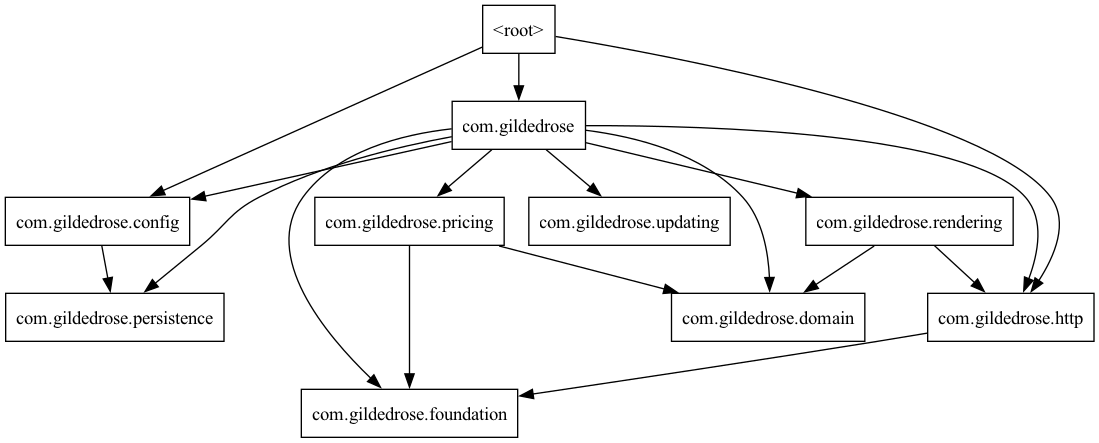
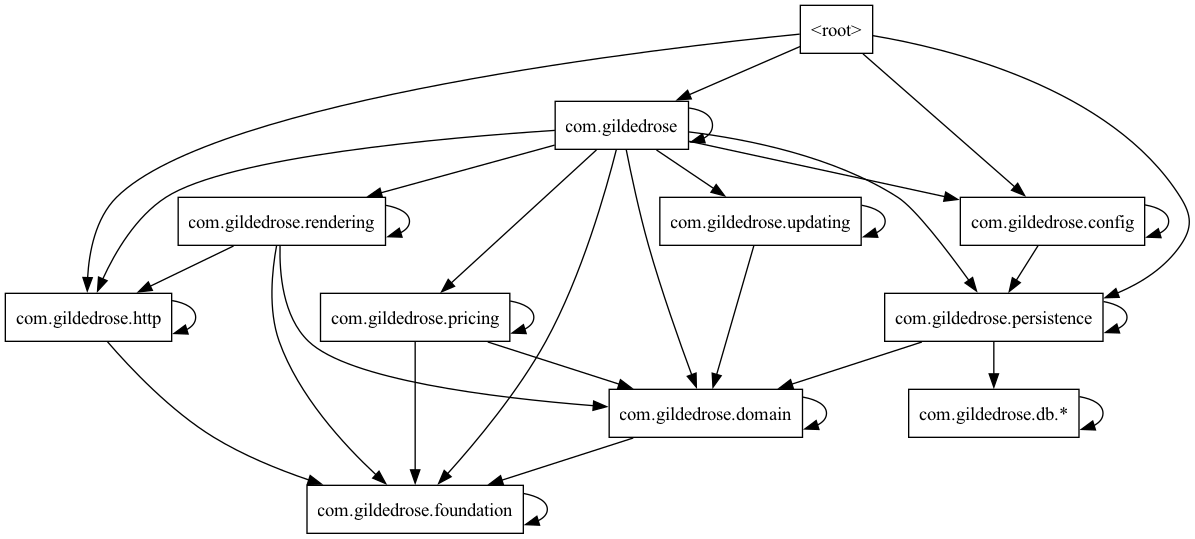
New package-analyzer.kt which uses classpath scanning rather than source parsing

diff --git a/app/src/test/java/package-analyzer.kt b/app/src/test/java/package-analyzer.kt
@@ -1,86 +1,77 @@
 import io.github.classgraph.ClassGraph
+import io.github.classgraph.ClassInfo
 import org.junit.jupiter.api.Disabled
 import org.junit.jupiter.api.Test
 import java.io.File
-import java.util.regex.Pattern
 import kotlin.test.assertEquals
 
 
 @Disabled("Run by hand only")
 class PackageAnalyzer {
     private val includeExternalDependencies = false
+    private val outputDot = File.createTempFile("output", ".dot")
 
     @Test
     fun main() {
-        val outputDot = File.createTempFile("output", ".dot")
-        val outputPng = File("packages.png")
-        val srcDirPath = File("./src/main")
-        val fileTree = walkTree(srcDirPath, includeExternalDependencies = includeExternalDependencies)
-
-        generateDotFile(outputDot, fileTree)
-        createImageOutput(outputDot, outputPng)
+        val scanResult = ClassGraph().enableInterClassDependencies().scan()
+        val dependencies: Map<ClassInfo, List<ClassInfo>> = scanResult.classDependencyMap
+        val root = scanResult.getClassInfo("MainKt")
+        val packageDependencies = walkClassTree(root, dependencies, includeExternalDependencies)
+        generateDotFile(outputDot, packageDependencies)
+        createImageOutput(outputDot, File("packages.png"))
         checkDotFile(outputDot)
     }
 }
 
-private fun walkTree(srcDirPath: File, includeExternalDependencies: Boolean): Map<String, Set<String>> =
-    srcDirPath.walkTopDown()
-        .filter { it.isFile && it.path.endsWith(".kt") }
-        .map { file -> file.extractPackageAndImports(includeExternalDependencies) }
-        .groupingBy { it.first }
-        .fold(emptySet()) { acc, (_, importedPackages) -> acc union importedPackages }
+private fun walkClassTree(
+    root: ClassInfo,
+    dependencies: Map<ClassInfo, List<ClassInfo>>,
+    includeExternalDependencies: Boolean,
+    destination: MutableMap<String, MutableSet<String>> = mutableMapOf(),
+    visited: MutableSet<ClassInfo> = mutableSetOf(),
+): MutableMap<String, MutableSet<String>> {
+    if (visited.contains(root))
+        return destination
+    else
+        visited.add(root)
+    val rootPackageName = nameFor(root.packageName, includeExternalDependencies)
+        ?: return destination
 
-private val packagePattern = Pattern.compile("^package\\s+(.*)$")
-private val importPattern = Pattern.compile("^import\\s+(.*)$")
-
-private fun File.extractPackageAndImports(includeExternal: Boolean): Pair<String, Set<String>> {
-    val lines = this.readLines()
-    val matcher = packagePattern.matcher(lines.firstOrNull() ?: "")
-    val packageName = if (matcher.find()) matcher.group(1) else "<root>"
-
-    val importedPackages = lines.drop(1)
-        .mapNotNull { line ->
-            val importMatcher = importPattern.matcher(line)
-            if (importMatcher.find()) {
-                val importedPackage = packageNameFrom(importMatcher.group(1).split('.'))
-                importedPackage?.let { nameFor(it, includeExternal = includeExternal) }
-            } else null
+    val classDependencies = dependencies[root] ?: emptyList()
+    val packageDependencies = classDependencies
+        .mapNotNull {
+            nameFor(it.packageName, includeExternalDependencies)
         }.toSet()
-
-    return Pair(packageName, importedPackages)
+    destination.getOrPut(rootPackageName) { mutableSetOf() }.addAll(packageDependencies)
+    classDependencies
+        .filter { it.packageName.startsWith("com.gildedrose") }
+        .forEach { walkClassTree(it, dependencies, includeExternalDependencies, destination, visited) }
+    return destination
 }
 
-private fun nameFor(importedPackage: String, includeExternal: Boolean) =
-    if (includeExternal) {
-        when {
-            importedPackage.startsWith("com.fasterxml.jackson") -> "jackson"
-            importedPackage.startsWith("org.apache.hc") -> "apache-hc"
-            importedPackage.startsWith("org.http4k.core") -> "org.http4k.core"
-            importedPackage.startsWith("org.jooq") -> "jooq"
-            else -> importedPackage
+private fun nameFor(importedPackage: String, includeExternal: Boolean): String? =
+    when {
+        importedPackage.isEmpty() -> "<root>"
+        importedPackage.startsWith("com.gildedrose.db") -> "com.gildedrose.db.*"
+        includeExternal -> {
+            when {
+                importedPackage.startsWith("com.fasterxml.jackson") -> "jackson"
+                importedPackage.startsWith("org.apache.hc") -> "apache-hc"
+                importedPackage.startsWith("org.http4k.core") -> "org.http4k.core"
+                importedPackage.startsWith("org.jooq") -> "jooq"
+                importedPackage.startsWith("kotlinx.html") -> "kotlinx-html"
+                importedPackage.startsWith("kotlinx") -> importedPackage
+                importedPackage.startsWith("kotlin") -> null
+                importedPackage.startsWith("org.jetbrains.annotations") -> null
+                else -> importedPackage
+            }
         }
-    } else {
-        if (importedPackage.startsWith("com.gildedrose"))
-            importedPackage
-        else
-            null
+
+        else -> when {
+            importedPackage.startsWith("com.gildedrose") -> importedPackage
+            else -> null
+        }
     }
-
-private fun packageNameFrom(components: List<String>): String? {
-    var current = components
-    while (current.isNotEmpty()) {
-        val packageName = current.joinToString(".")
-        if (packageName.isValidPackageName())
-            return packageName
-        current = current.dropLast(1)
-    }
-    return null
-}
-
-private val allPackages = ClassGraph().enableClassInfo()
-    .scan().allClasses.map { it.packageName }.toSet()
-
-private fun String.isValidPackageName(): Boolean = allPackages.contains(this)
 
 private fun checkDotFile(dotFile: File) {
     val dotFileContents = dotFile.readText()
@@ -88,17 +79,16 @@ private fun checkDotFile(dotFile: File) {
     assertEquals(approvedFileContents, dotFileContents)
 }
 
-private fun generateDotFile(dotFile: File, fileTree: Map<String, Set<String>>) {
+private fun generateDotFile(dotFile: File, packagesMap: Map<String, Set<String>>) {
     dotFile.printWriter().use { out ->
         out.println("digraph KotlinPackageDependencies {")
         out.println("rankdir=TB;")
         out.println("node [shape=box];")
         out.println("\"com.gildedrose\" [rank=min];")
 
-        fileTree.forEach { (pkg, imports) ->
-            imports.forEach { importedFull ->
-                // For the dot file, we need to use the full import path
-                out.println("\"$pkg\" -> \"$importedFull\";")
+        packagesMap.forEach { (packageInfo, packageDependencies) ->
+            packageDependencies.forEach { dependency ->
+                out.println(""""$packageInfo" -> "$dependency";""")
             }
         }
 
